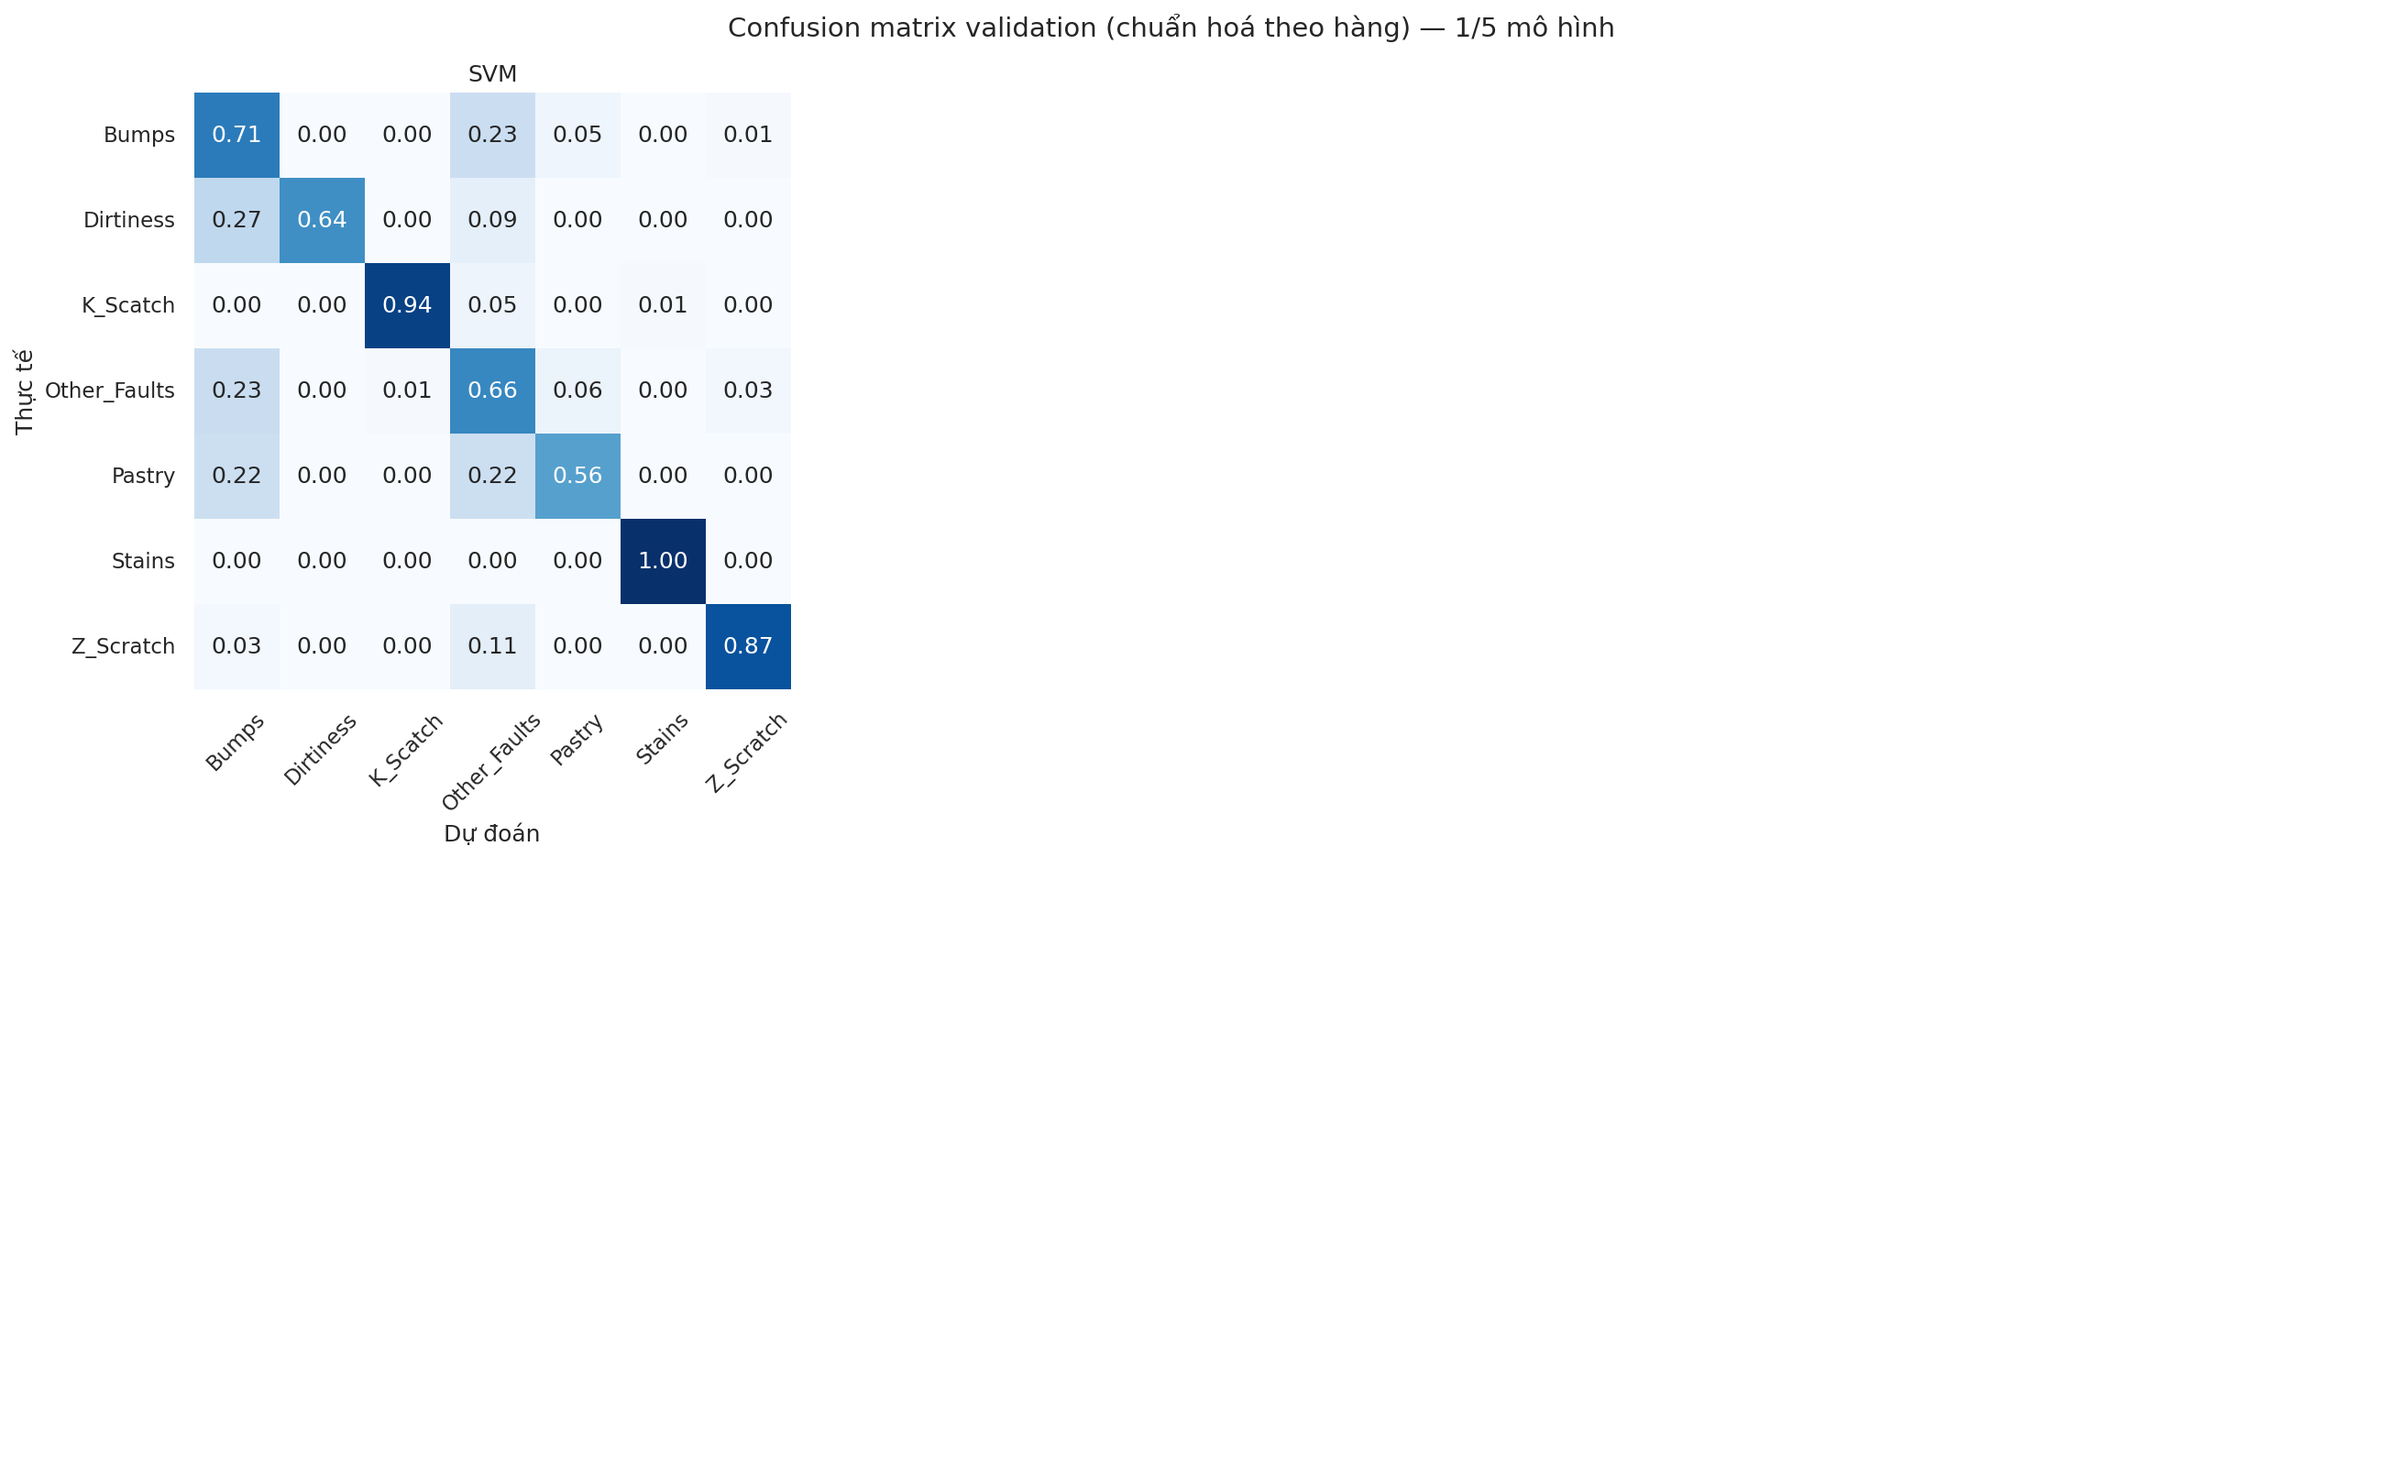
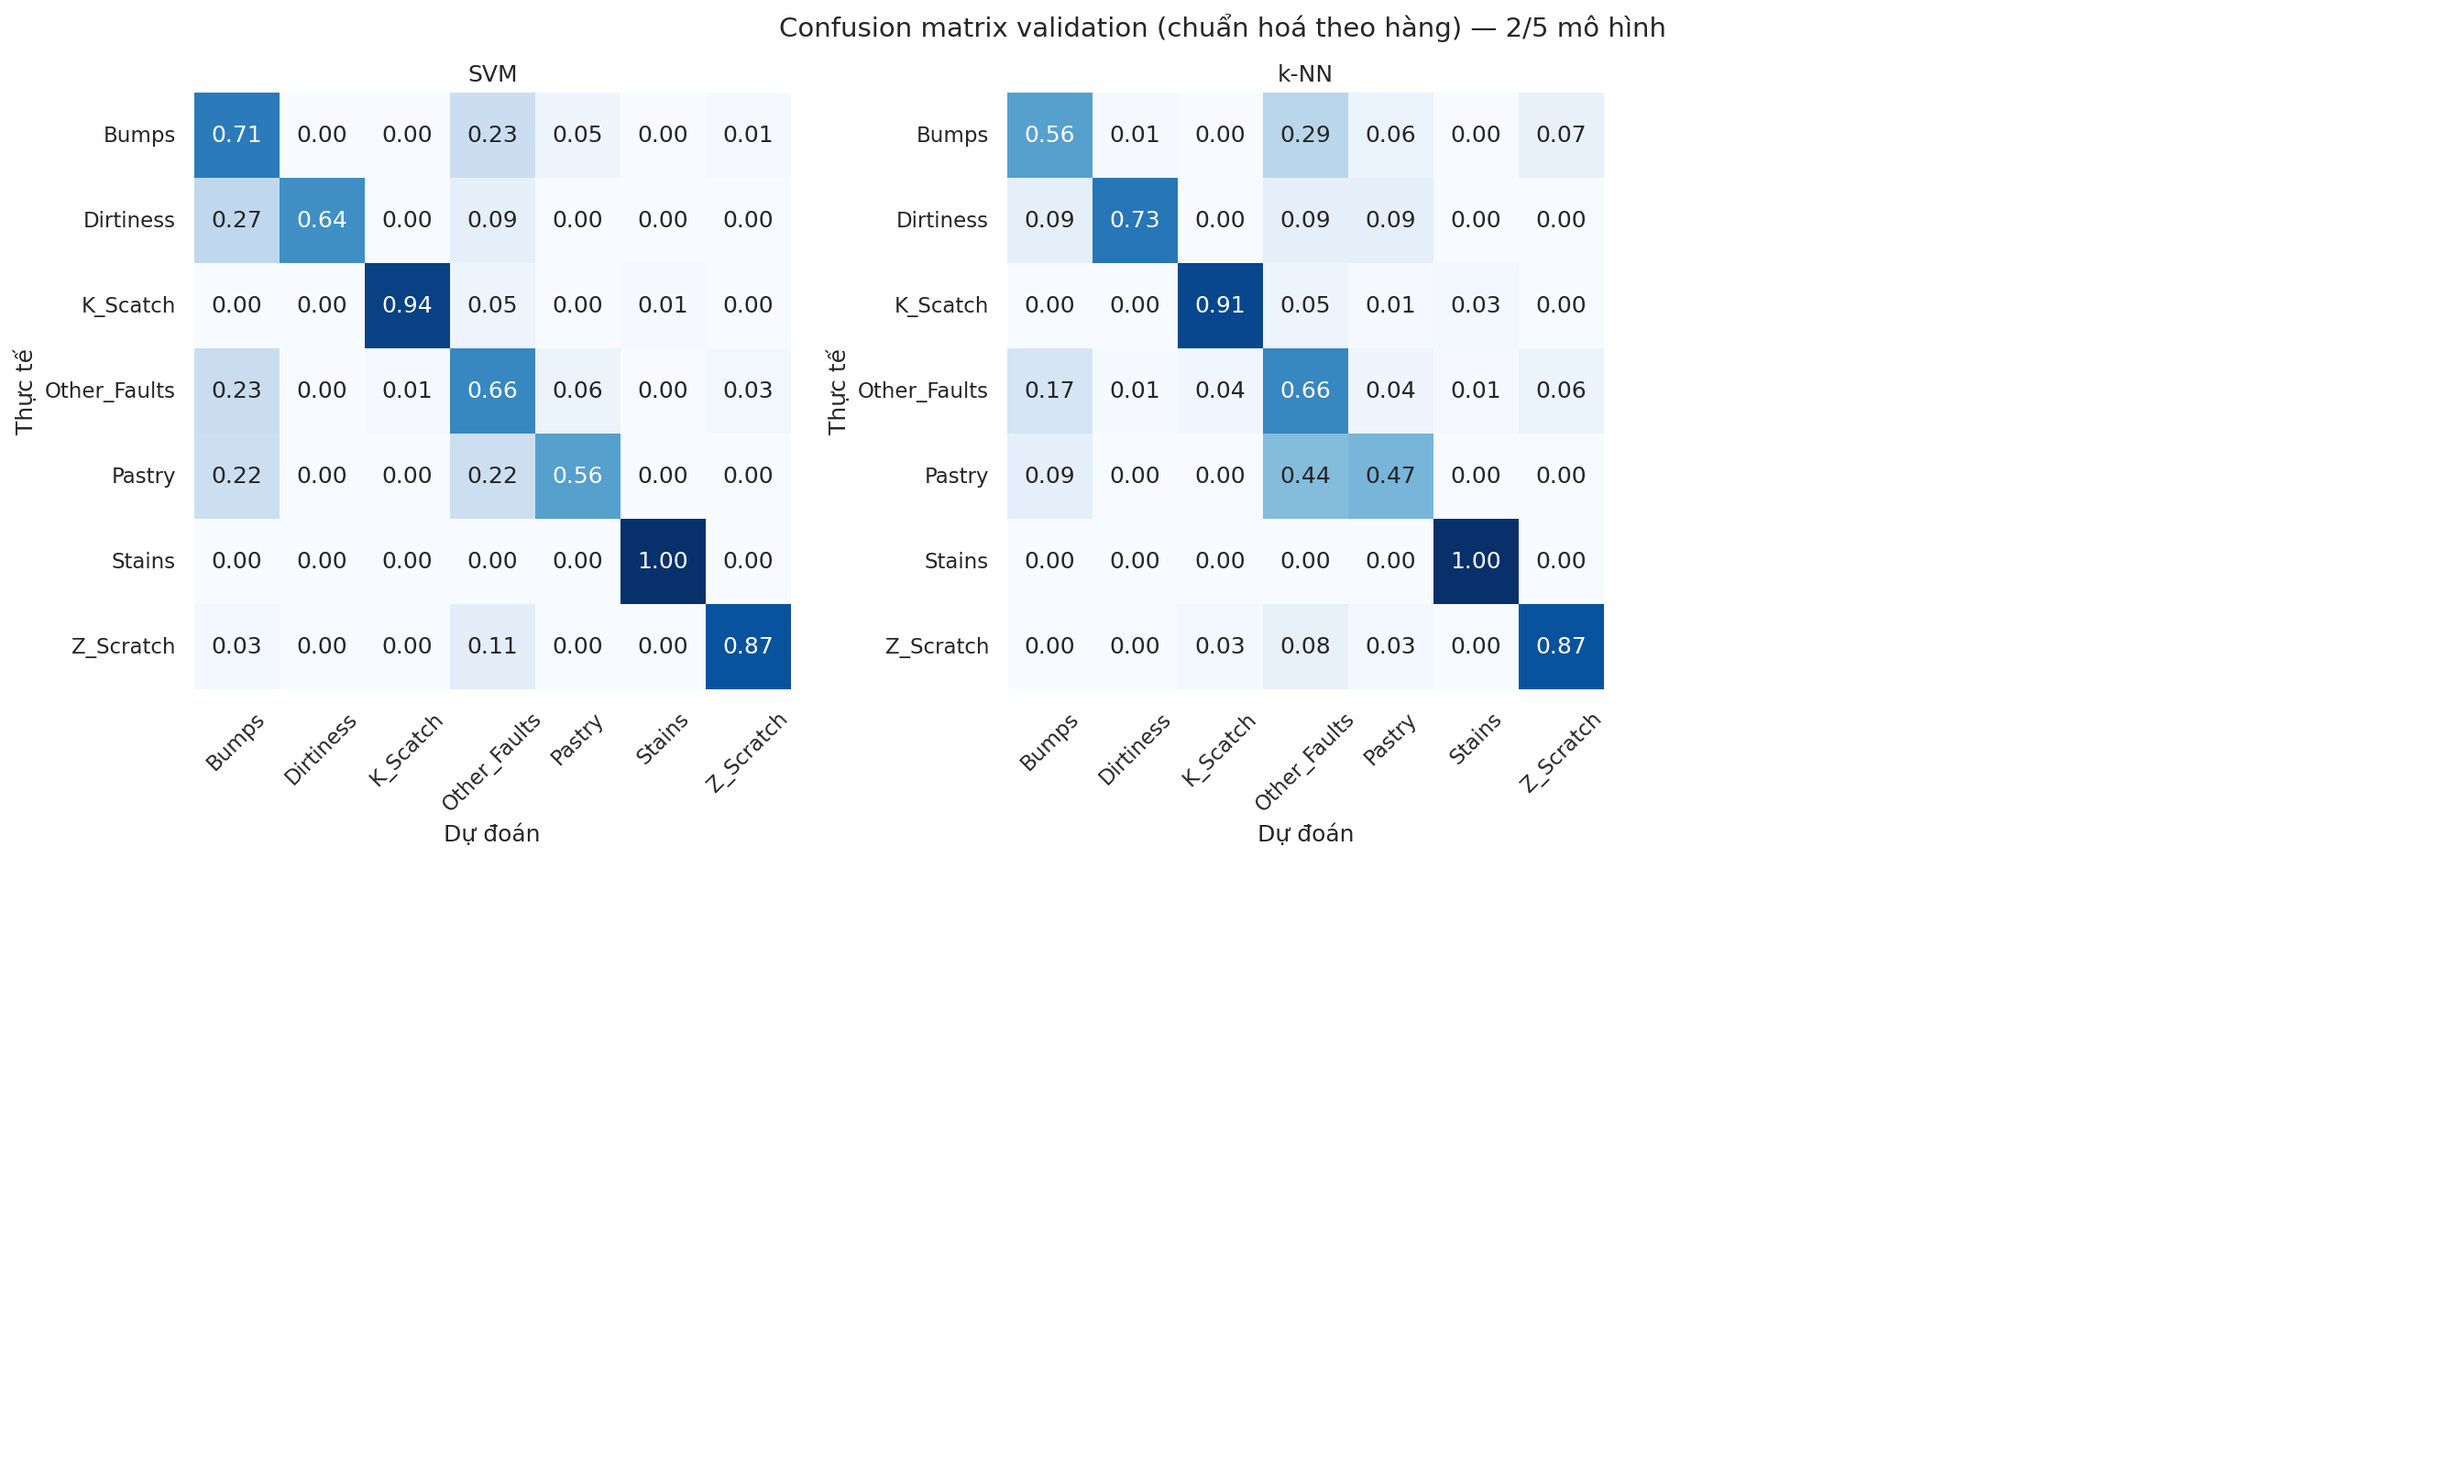
train: [2/5] k-NN — validation macro-F1=0.7264

diff --git a/reports/results.md b/reports/results.md
@@ -5,3 +5,4 @@ Mô hình được chọn theo validation macro-F1; test chỉ đánh giá mô h
 | model   |   train_f1_macro |   validation_f1_macro |   f1_macro_gap | test_accuracy   | test_balanced_accuracy   | test_f1_macro   | test_f1_weighted   |
 |:--------|-----------------:|----------------------:|---------------:|:----------------|:-------------------------|:----------------|:-------------------|
 | SVM     |           0.8583 |                0.7826 |         0.0756 |                 |                          |                 |                    |
+| k-NN    |           0.813  |                0.7264 |         0.0866 |                 |                          |                 |                    |
